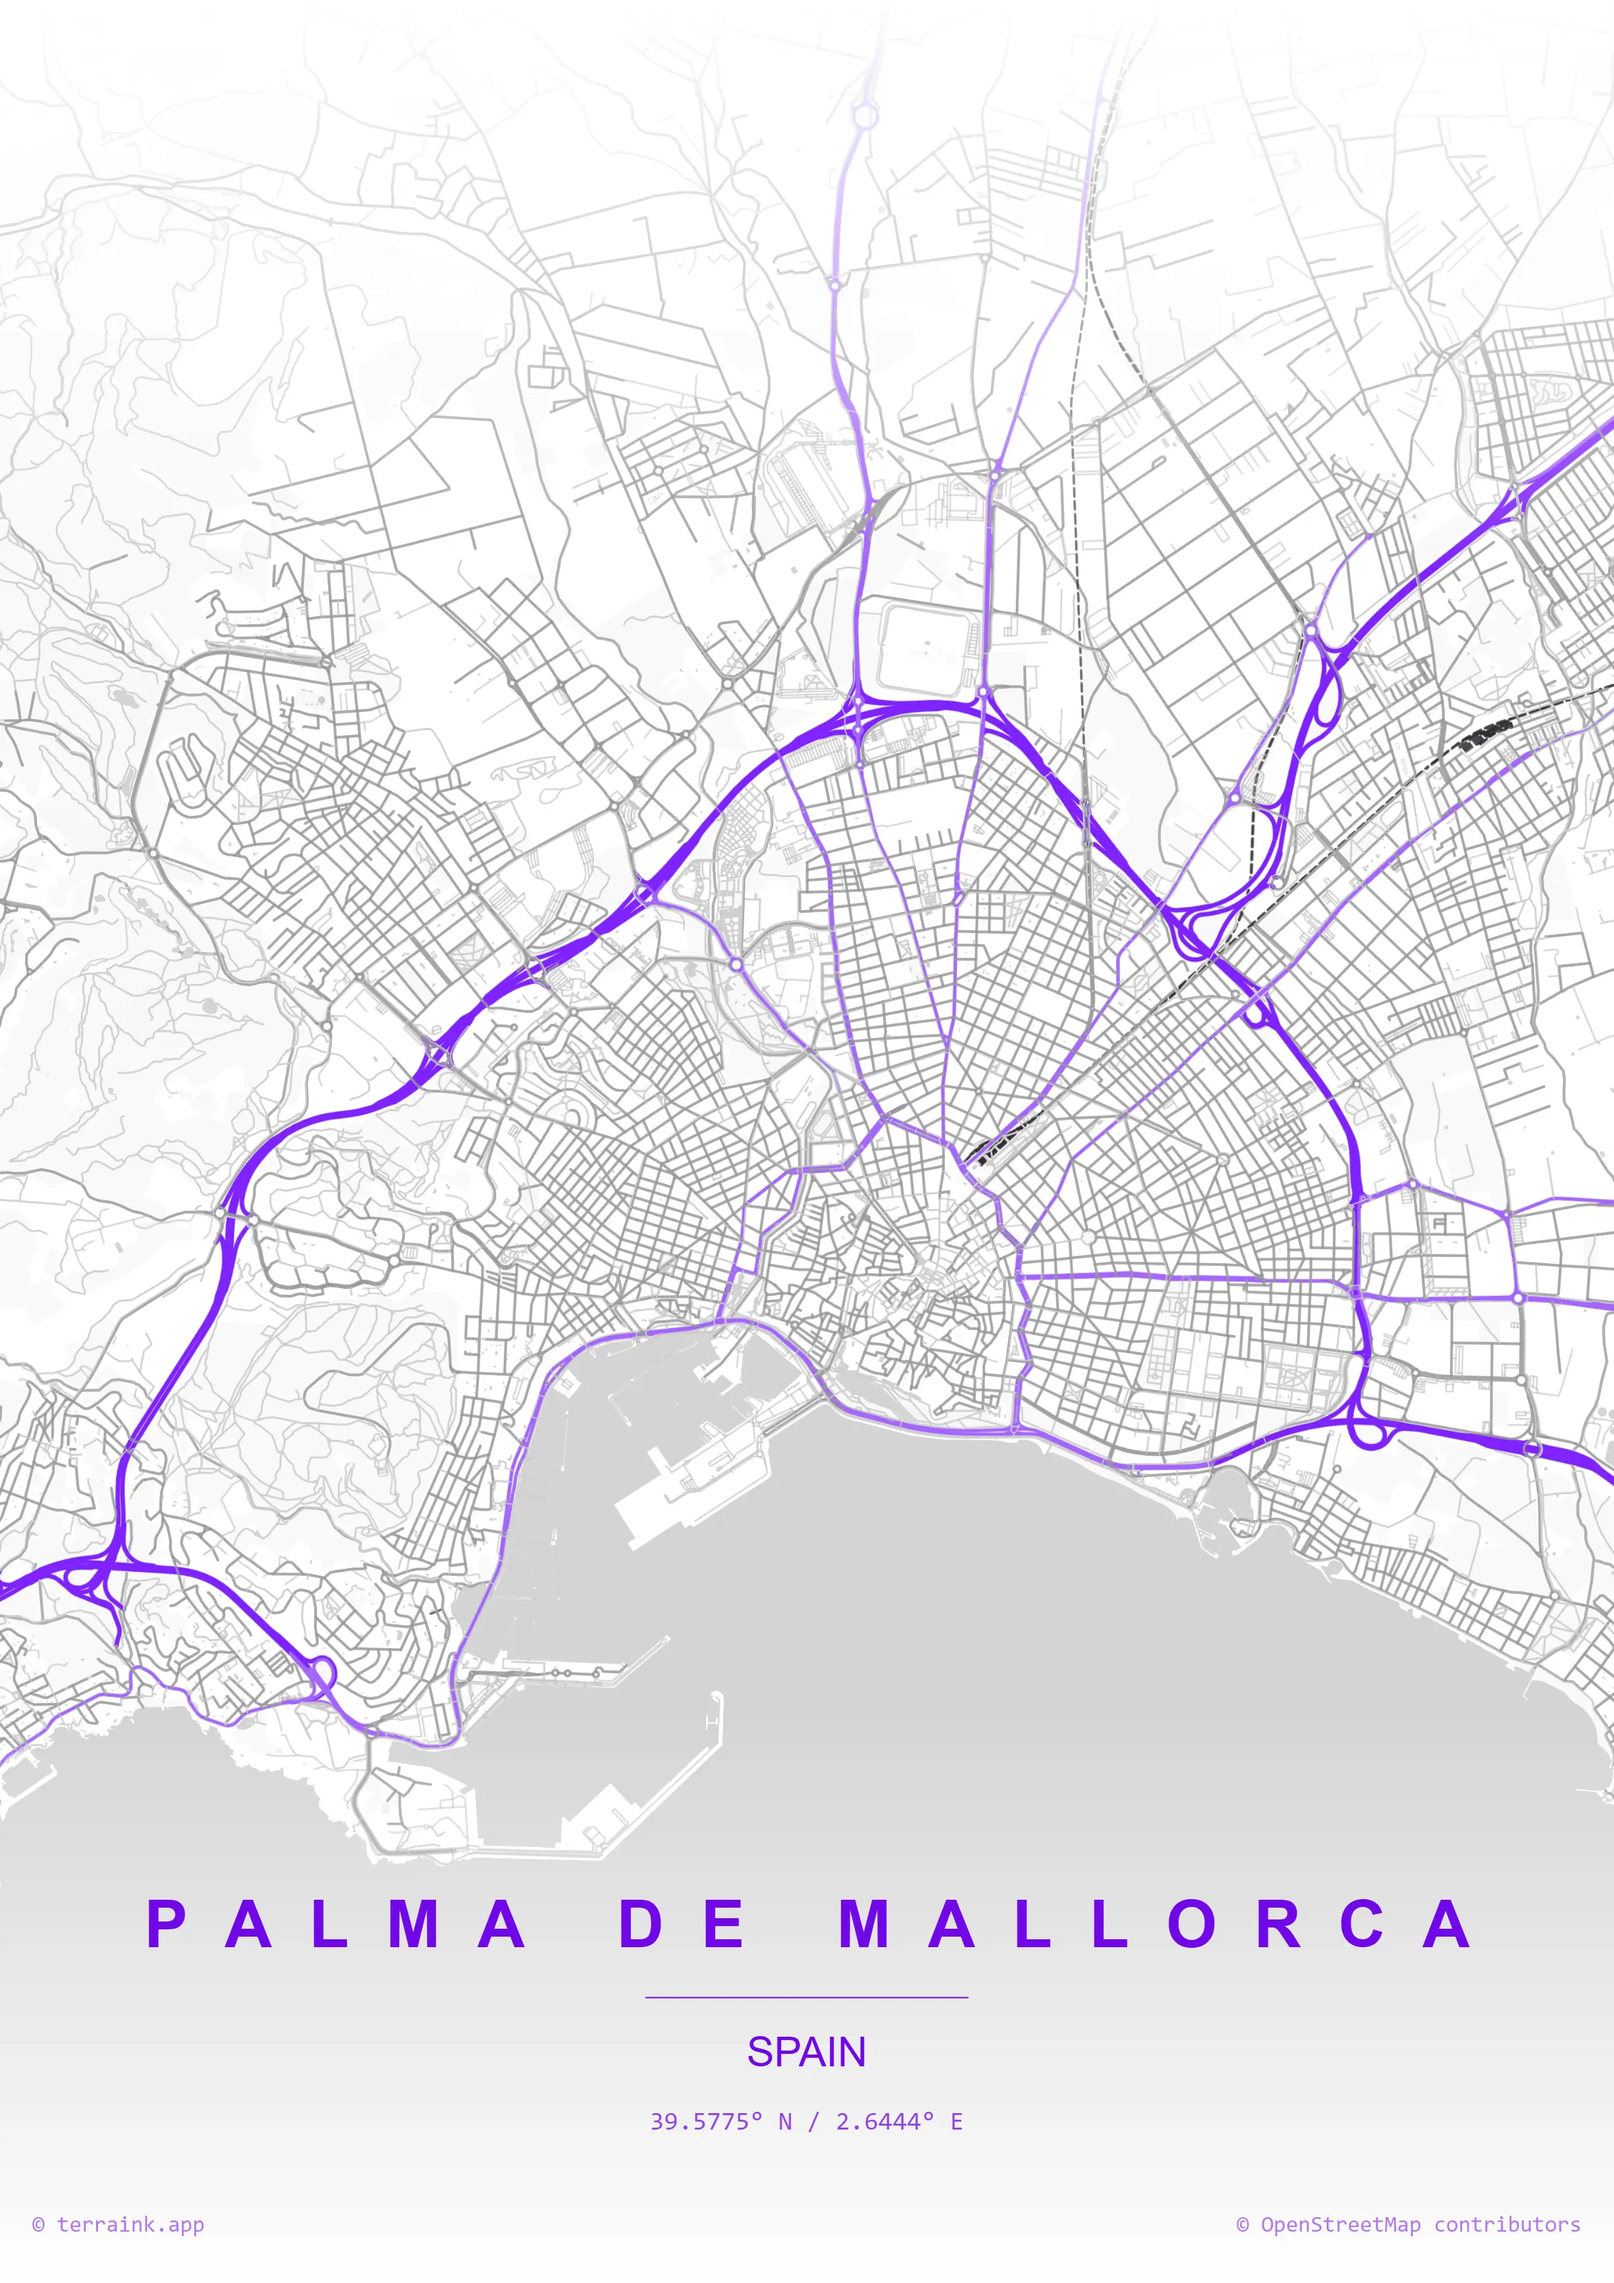
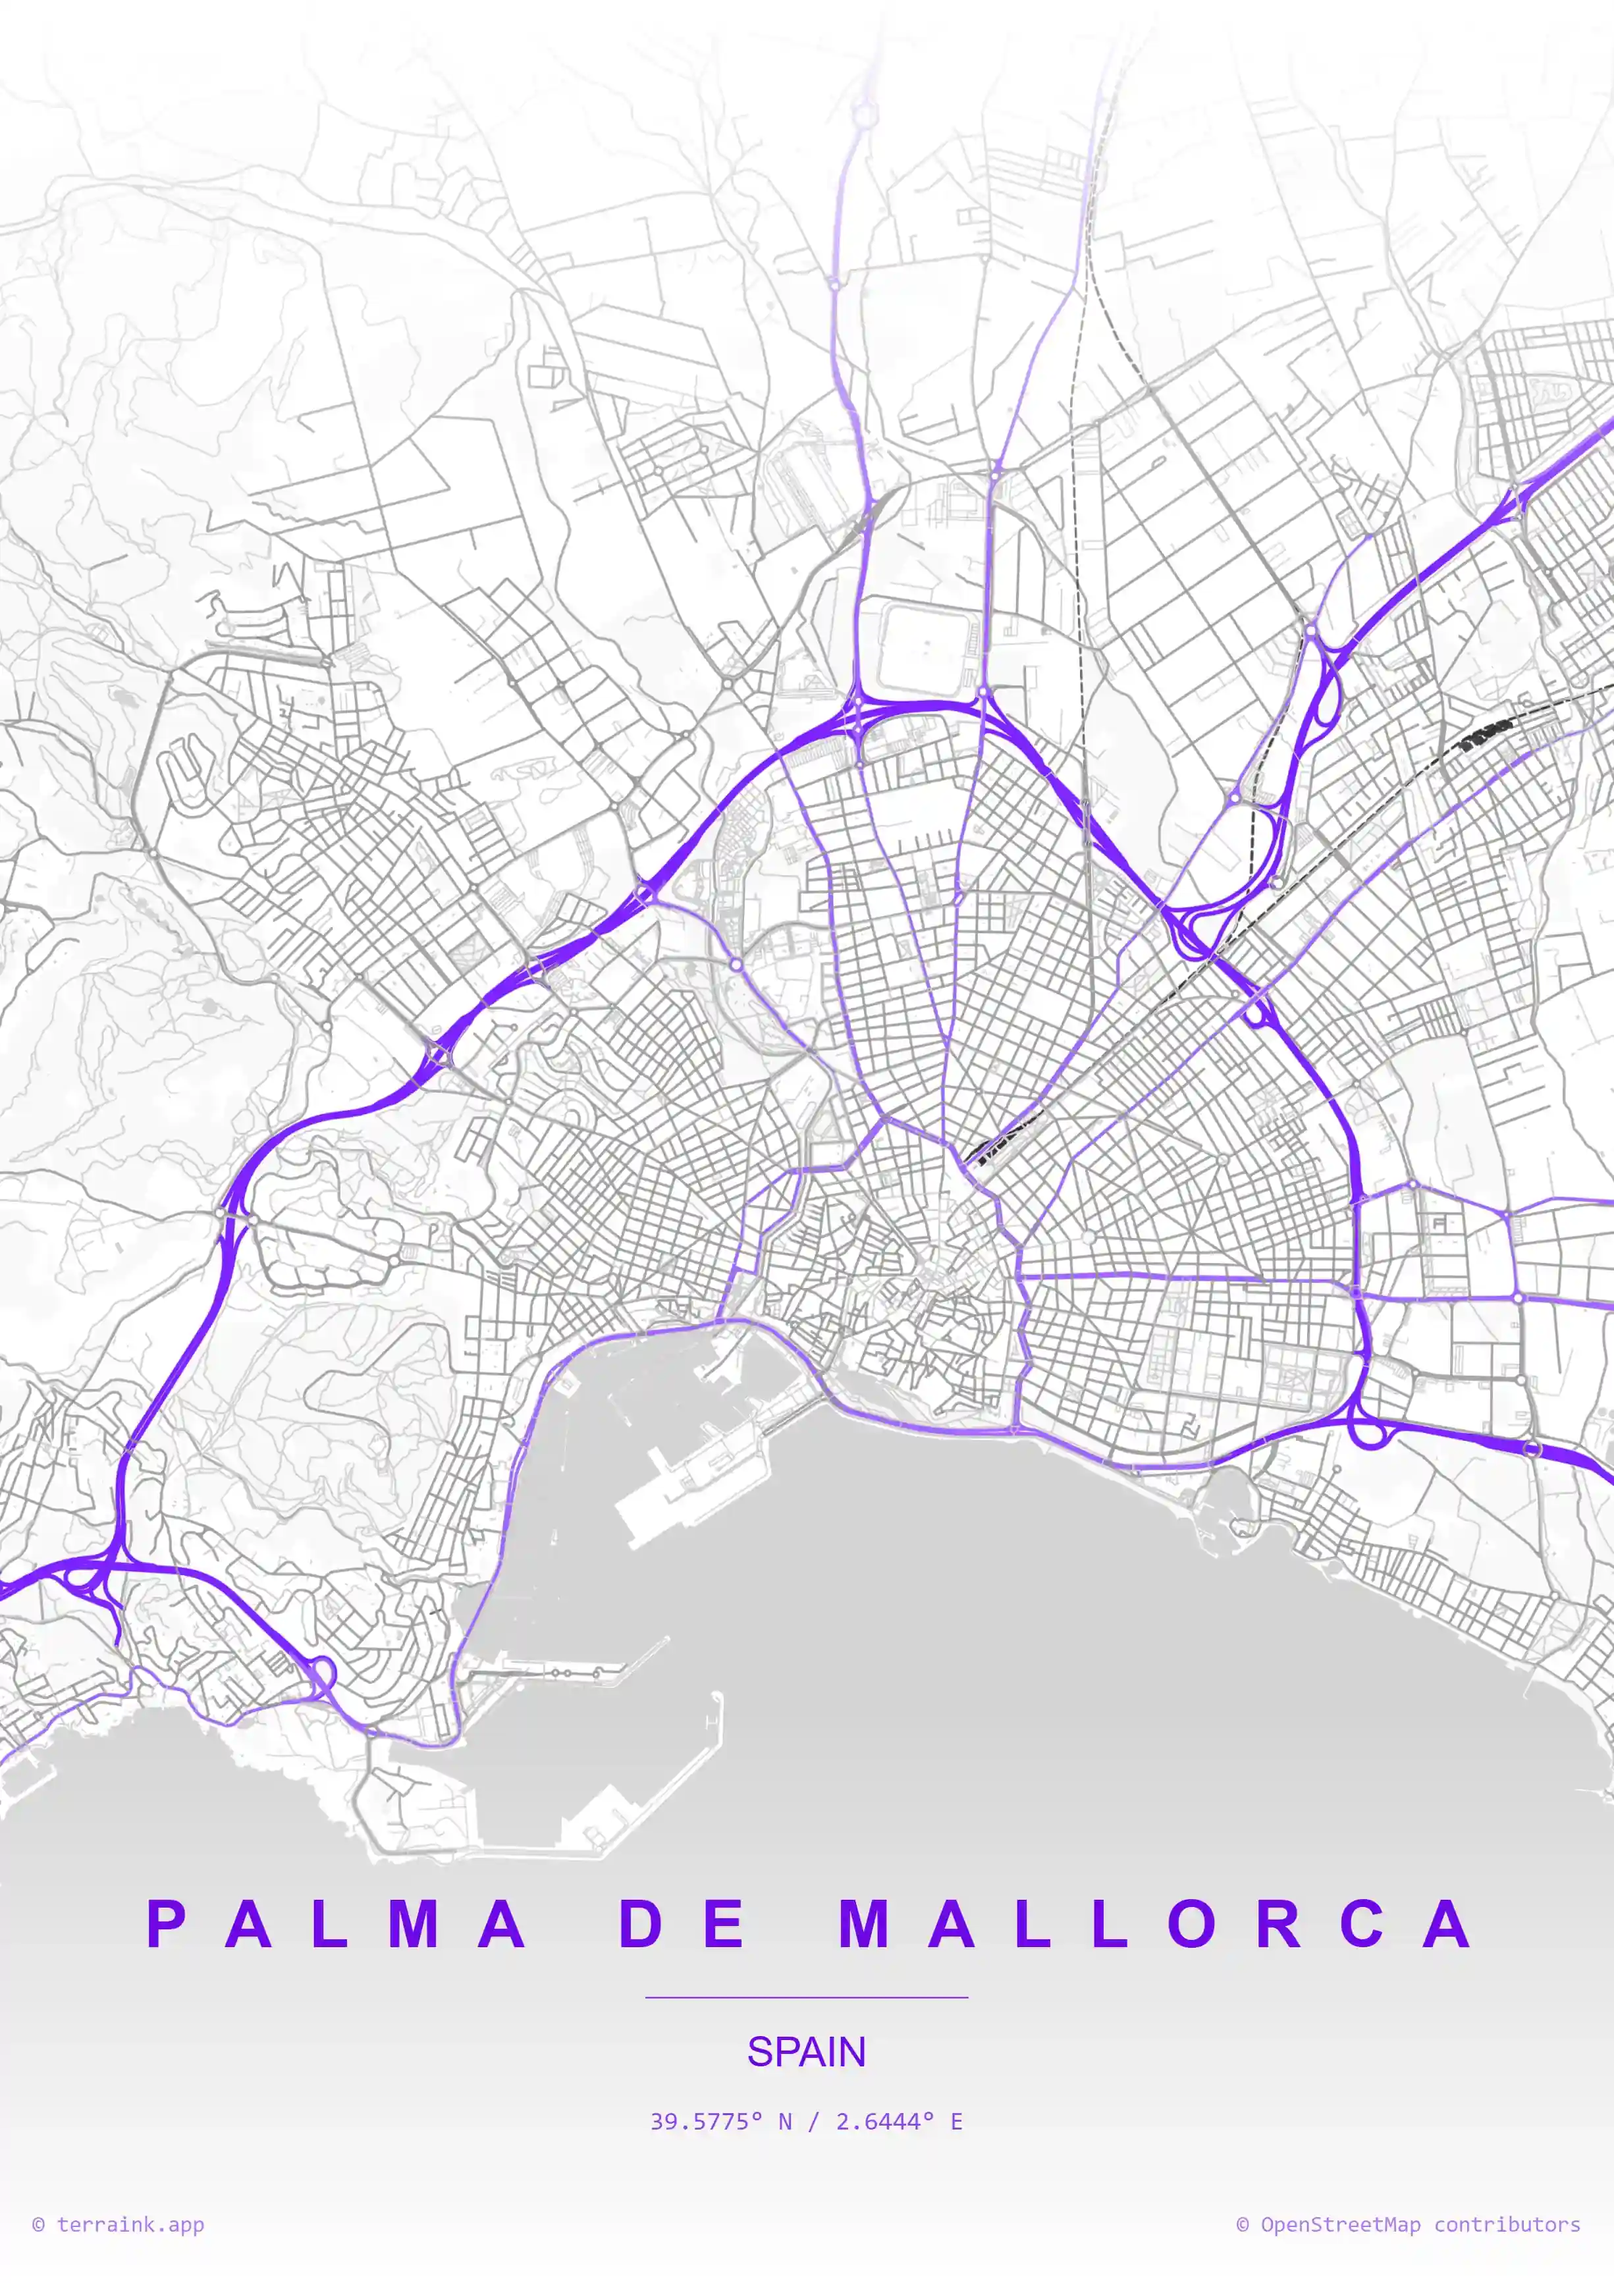
fix: Image optimization (webp format), fixed bottom bar responsive design fixed (font-size).

diff --git a/components/layout/FixedBottomBar.tsx b/components/layout/FixedBottomBar.tsx
@@ -8,7 +8,6 @@ import {
 import {
     Table,
     TableBody,
-    TableCaption,
     TableCell,
     TableHead,
     TableHeader,
@@ -43,18 +42,18 @@ export default async function FixedBottomBar() {
     return (
         <section className="fixed z-40 bottom-0 w-full flex items-center justify-between px-4 md:px-6 xl:px-10 3xl:px-4 bg-white dark:bg-gray-950 border-t border-gray-300 dark:border-gray-800">
             {/* AVAILABLE */}
-            <article className="group text-[10px] text-gray-600 dark:text-gray-500 uppercase tracking-widest cursor-default w-[25%] xl:w-[20%] 3xl:w-40 border-r border-gray-300 dark:border-gray-800">
+            <article className="group text-[7px] xs:text-[10px] text-gray-600 dark:text-gray-500 uppercase tracking-widest cursor-default w-[25%] xl:w-[20%] 3xl:w-40 border-r border-gray-300 dark:border-gray-800">
                 <span className="text-violet-500 group-hover:text-lime-500 dark:text-lime-500 dark:group-hover:text-violet-500">◈</span> Available
             </article>
 
             {/* FTWR */}
-            <article className="text-[10px] text-gray-600 dark:text-gray-500 uppercase tracking-widest cursor-default flex justify-center items-center w-[50%] xl:w-[60%] 3xl:w-full">
+            <article className="text-[7px] xs:text-[10px] text-gray-600 dark:text-gray-500 uppercase tracking-widest cursor-default flex justify-center items-center w-[50%] xl:w-[60%] 3xl:w-full">
                 <div className='w-fit cursor-help'><Terminal className="text-violet-500 w-3.5 h-3.5 inline-flex" />FOLLOW_THE_WHITE_RABBIT</div>
             </article>
 
             {/* BTC */}
             <Tooltip>
-                <TooltipTrigger className="text-[10px] text-gray-600 dark:text-gray-500 uppercase tracking-widest cursor-default text-end w-[25%] xl:w-[20%] 3xl:w-40 border-l border-gray-300 dark:border-gray-800">
+                <TooltipTrigger className="text-[7px] xs:text-[10px] text-gray-600 dark:text-gray-500 uppercase tracking-widest cursor-default text-end w-[25%] xl:w-[20%] 3xl:w-40 border-l border-gray-300 dark:border-gray-800">
                     <p className="inline-flex items-center gap-1 pr-2">
                         <small className="text-violet-500">₿</small>
                         {/* <Bitcoin className='text-violet-500 w-4 h-4'/> */}

diff --git a/components/home/Contact.tsx b/components/home/Contact.tsx
@@ -1,8 +1,6 @@
 "use client"
 import SectionHeader from "../layout/SectionHeader";
 import { ThemeImage } from "../ui/ThemeImage";
-import CityMapLight from "@/public/images/palma_de_mallorca_map_light.webp";
-import CityMapDark from "@/public/images/palma_de_mallorca_map_dark.webp";
 import { useTranslations } from "next-intl";
 import { ContactForm } from "../layout/ContactForm";
 import CornerIcons from "../ui/cornerIcons";
@@ -12,6 +10,9 @@ import { motion } from "motion/react";
 import { fadeUp } from "@/lib/animations";
 import { LinkedInIcon } from "../icons/LinkedInIcon";
 import GitHubIcon from "../icons/GitHubIcon";
+
+import CityMapLight from "@/public/images/palma_de_mallorca_map_light.webp";
+import CityMapDark from "@/public/images/palma_de_mallorca_map_dark.webp";
 
 export default function Contact() {
 

diff --git a/components/home/Hero.tsx b/components/home/Hero.tsx
@@ -8,10 +8,10 @@ import Link from "next/link";
 import Image from "next/image";
 import { CircleDot } from "lucide-react";
 
-import ProfileBadge from "@/public/images/PROFILE_BADGE_V6.png";
-import M85mm from "@/public/images/85mm.png";
-import M54mm from "@/public/images/54mm.png";
-import M5mm from "@/public/images/5mm.png";
+import ProfileBadge from "@/public/images/PROFILE_BADGE_V6.webp";
+import M85mm from "@/public/images/85mm.webp";
+import M54mm from "@/public/images/54mm.webp";
+import M5mm from "@/public/images/5mm.webp";
 import ScrambleText from "../ui/ScrambleText";
 
 export default function Hero() {

diff --git a/components/layout/ContactForm.tsx b/components/layout/ContactForm.tsx
@@ -1,8 +1,6 @@
 "use client"
-import * as React from "react";
 import { zodResolver } from "@hookform/resolvers/zod";
 import { Controller, useForm } from "react-hook-form";
-import axios from "axios";
 import { toast } from "sonner";
 import * as z from "zod";
 import { motion } from "motion/react";
@@ -73,6 +71,7 @@ export function ContactForm() {
 
     async function onSubmit(data: z.infer<typeof formSchema>) {
 
+        // MANUAL DELAY FOR TESTING PURPOSES
         await new Promise((resolve) => setTimeout(resolve, 4000));
 
         // try {

diff --git a/data/projects/caab.ts b/data/projects/caab.ts
@@ -47,7 +47,7 @@ export const caab: Project = {
   architectureImage: "/projects/security-system/architecture.png",
   dbDiagramImage: "/projects/security-system/db-diagram.png",
   screenshots: [
-    "/images/projects/caab/home_01.png",
+    "/images/projects/caab/home_01.webp",
     "/projects/security-system/screenshot-2.png",
   ],
 };
